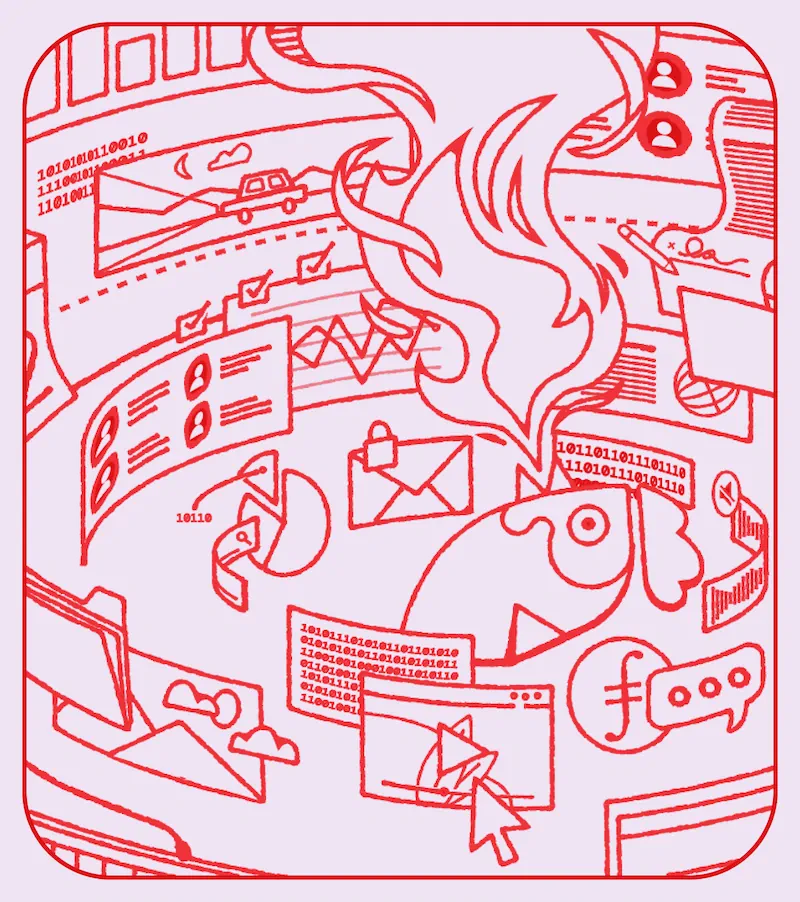
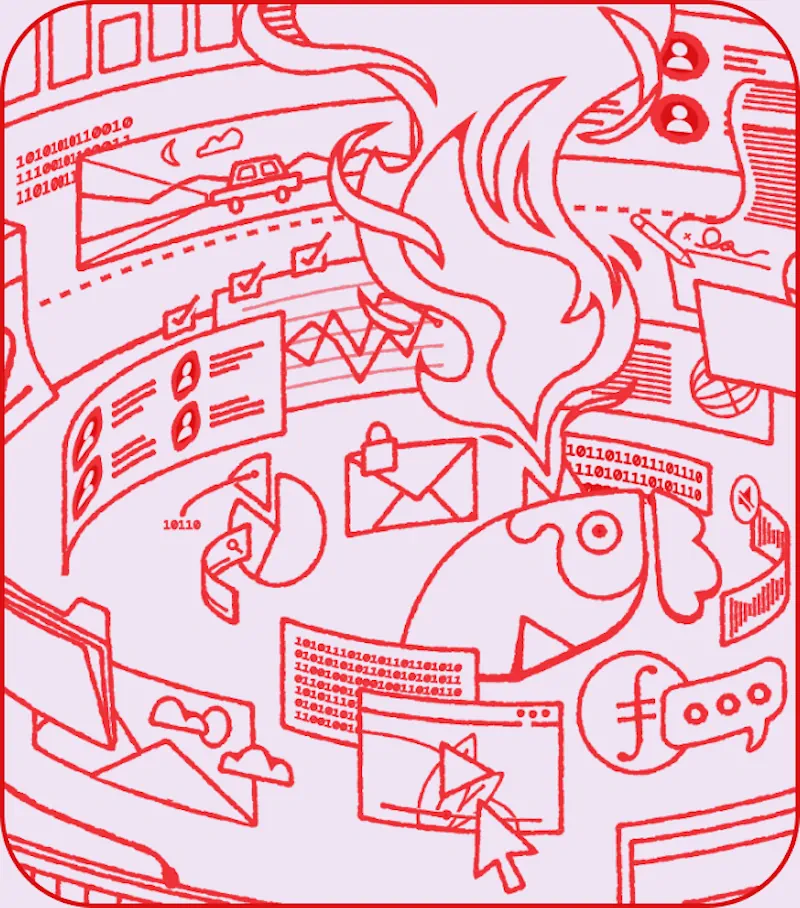
fix: crop hero illustration

diff --git a/components/Hero.vue b/components/Hero.vue
@@ -41,11 +41,11 @@ withDefaults(defineProps<Props>(), {
       </div>
       <div class="my-12 w-full">
         <NuxtImg
-          class="ml-a max-w-150 w-full"
+          class="ml-a max-w-140 w-full"
           alt="Storacha Illustration"
           src="/img/storacha-il.webp"
           width="800"
-          height="902"
+          height="908"
         />
       </div>
     </div>
